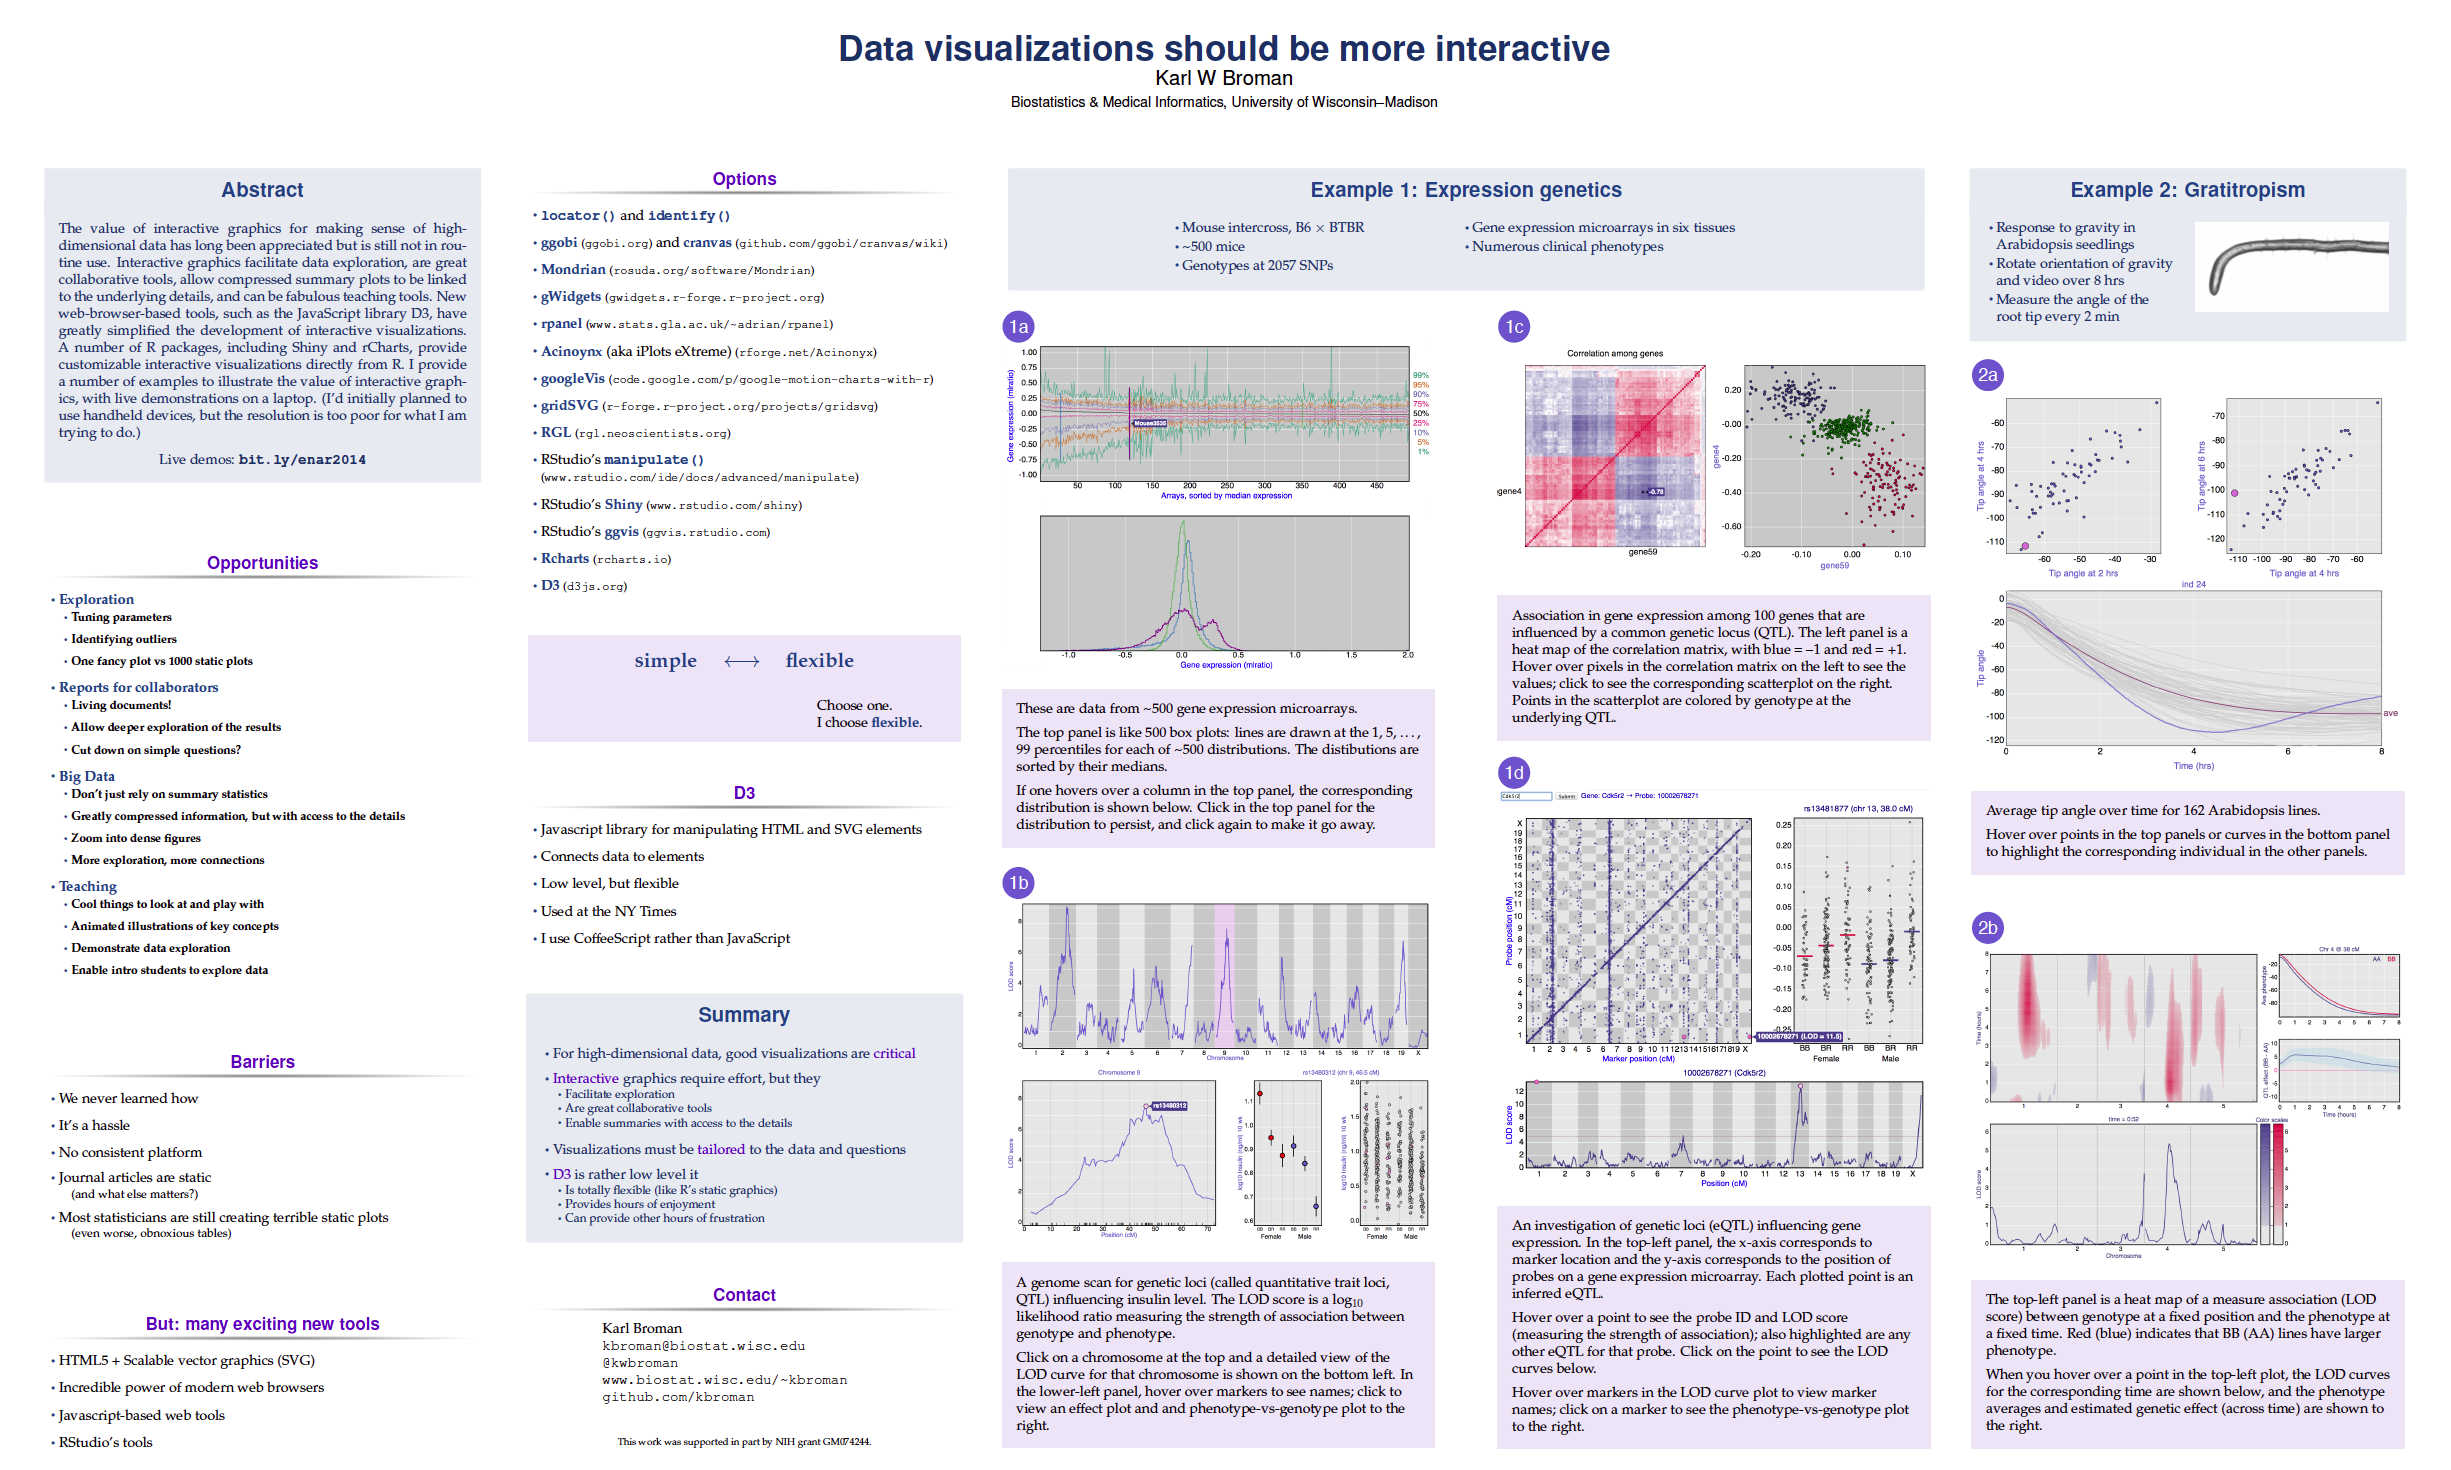
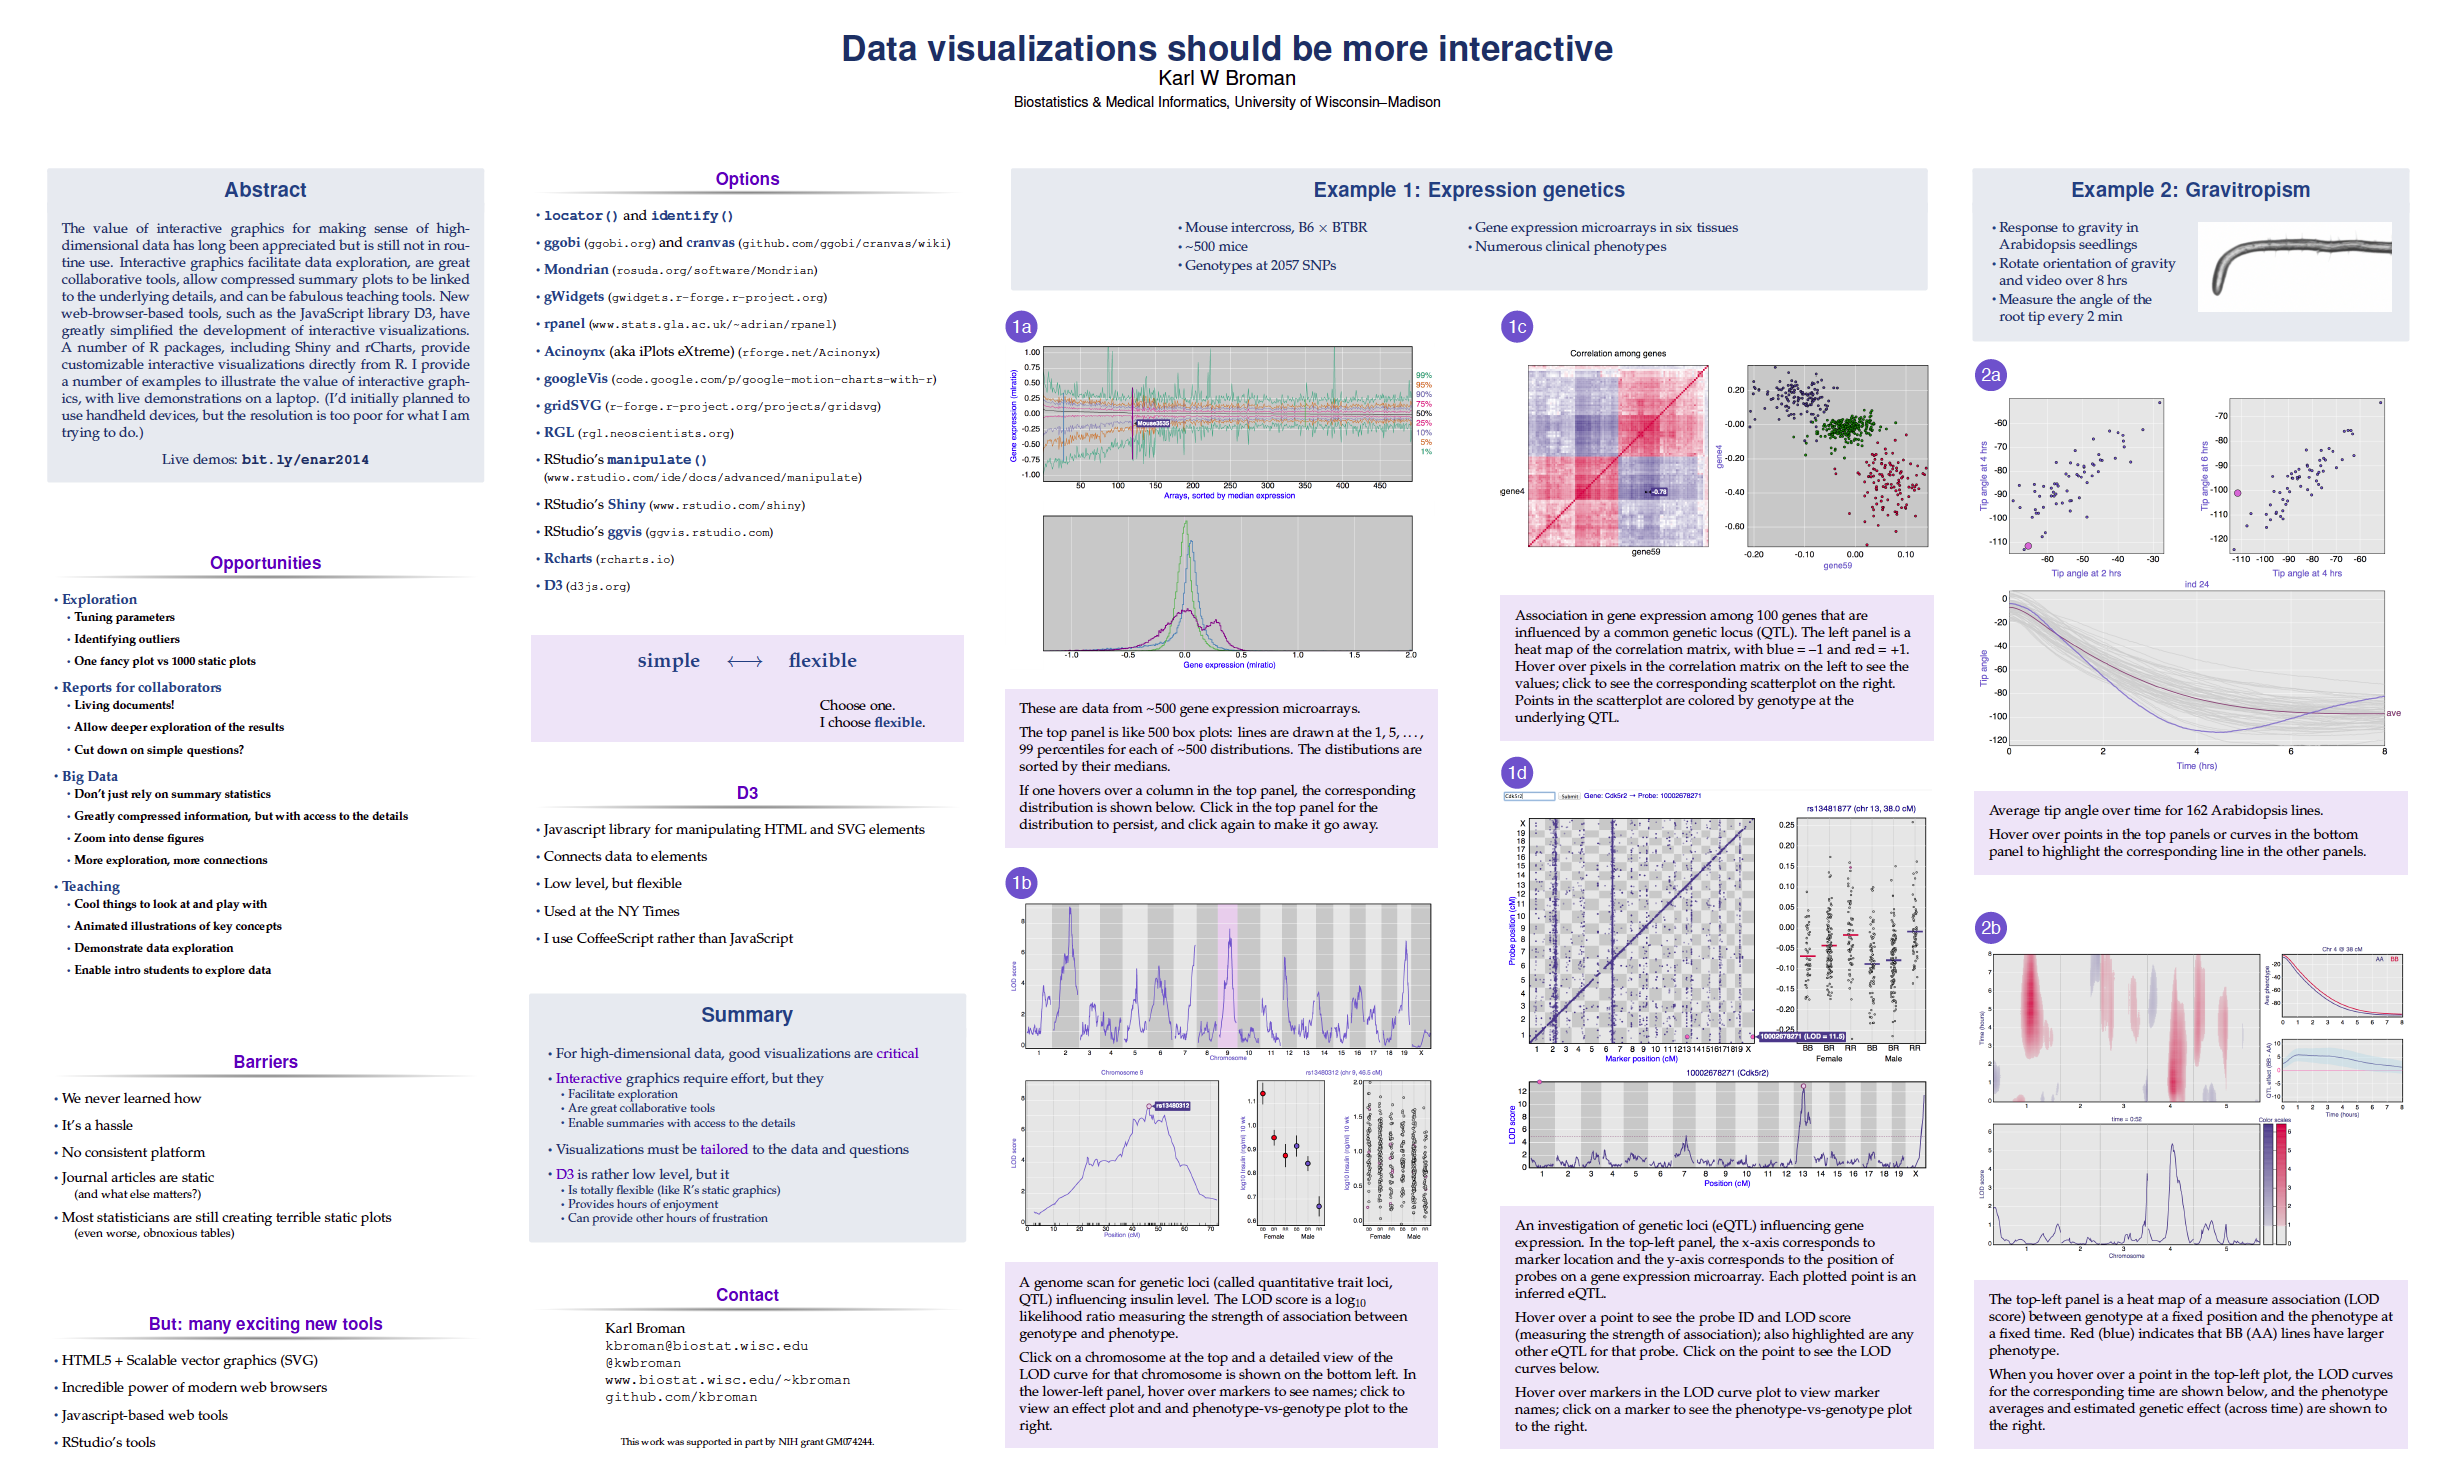
Fix a few typos

diff --git a/enar2014.tex b/enar2014.tex
@@ -284,7 +284,7 @@
           \ei
         \item Visualizations must be {\color{mypurple} tailored} to
           the data and questions
-        \item {\color{mypurple} D3} is rather low level it
+        \item {\color{mypurple} D3} is rather low level, but it
           \bi
           \item Is totally flexible (like R's static graphics)
           \item Provides hours of enjoyment
@@ -456,7 +456,7 @@
 
 
   \begin{column}{\onecolwid}
-    \begin{exampleblock}{\Large Example 2: Gratitropism}{
+    \begin{exampleblock}{\Large Example 2: Gravitropism}{
     \begin{minipage}[t]{\halfcolwid}
     \vspace*{0mm}
 
@@ -492,7 +492,7 @@
            \vspace{12pt}
 
           Hover over points in the top panels or curves in the bottom
-          panel to highlight the corresponding individual in the other
+          panel to highlight the corresponding line in the other
           panels.
         \end{beamercolorbox}
 
